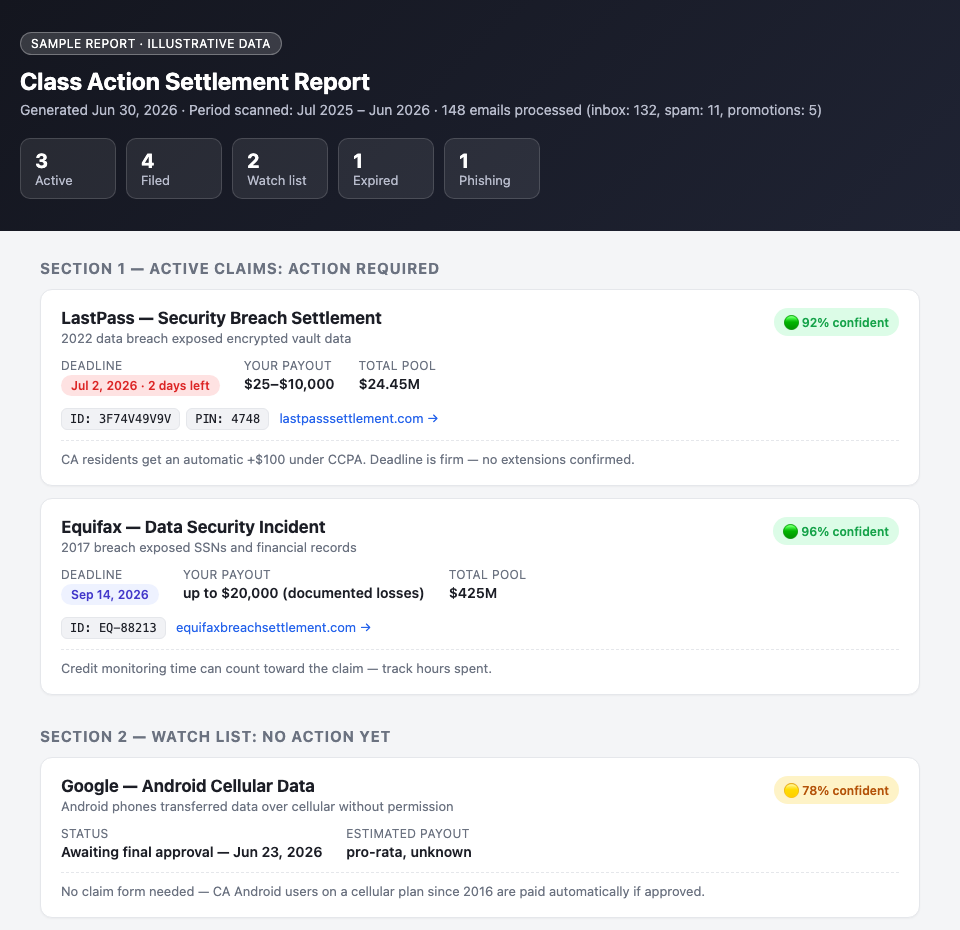
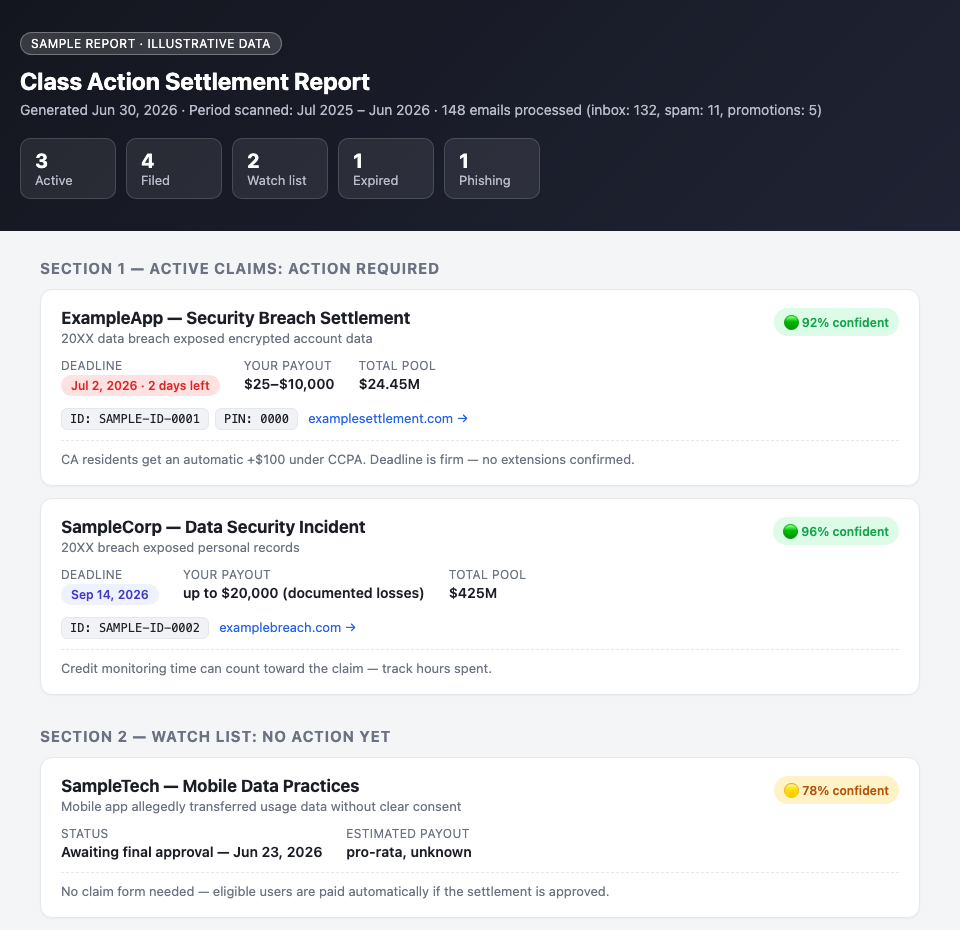
Remove real personal claim data accidentally used as demo content
The previous commit's "sample" report reused real values from an
earlier scan of the user's own inbox: a real LastPass claim ID/PIN,
a real Facebook settlement payout amount, and real company/case
names tied to the user's actual filed claims. Replace all of it with
clearly fictional placeholders (SampleCorp, SAMPLE-ID-0001, etc.) so
the demo contains no real personal or financial data.

diff --git a/docs/demo-report.html b/docs/demo-report.html
@@ -171,8 +171,8 @@
     <div class="card">
       <div class="card-top">
         <div>
-          <h3>LastPass — Security Breach Settlement</h3>
-          <div class="sub">2022 data breach exposed encrypted vault data</div>
+          <h3>ExampleApp — Security Breach Settlement</h3>
+          <div class="sub">20XX data breach exposed encrypted account data</div>
         </div>
         <span class="confidence green">🟢 92% confident</span>
       </div>
@@ -183,7 +183,7 @@
       </div>
       <div>
         <span class="idbox">ID: SAMPLE-ID-0001</span><span class="idbox">PIN: 0000</span>
-        <a class="link" href="#" onclick="return false;">lastpasssettlement.com →</a>
+        <a class="link" href="#" onclick="return false;">examplesettlement.com →</a>
       </div>
       <div class="notes">CA residents get an automatic +$100 under CCPA. Deadline is firm — no extensions confirmed.</div>
     </div>
@@ -191,8 +191,8 @@
     <div class="card">
       <div class="card-top">
         <div>
-          <h3>Equifax — Data Security Incident</h3>
-          <div class="sub">2017 breach exposed SSNs and financial records</div>
+          <h3>SampleCorp — Data Security Incident</h3>
+          <div class="sub">20XX breach exposed personal records</div>
         </div>
         <span class="confidence green">🟢 96% confident</span>
       </div>
@@ -202,8 +202,8 @@
         <div class="field"><div class="k">Total pool</div><div class="v">$425M</div></div>
       </div>
       <div>
-        <span class="idbox">ID: EQ-88213</span>
-        <a class="link" href="#" onclick="return false;">equifaxbreachsettlement.com →</a>
+        <span class="idbox">ID: SAMPLE-ID-0002</span>
+        <a class="link" href="#" onclick="return false;">examplebreach.com →</a>
       </div>
       <div class="notes">Credit monitoring time can count toward the claim — track hours spent.</div>
     </div>
@@ -214,8 +214,8 @@
     <div class="card">
       <div class="card-top">
         <div>
-          <h3>Google — Android Cellular Data</h3>
-          <div class="sub">Android phones transferred data over cellular without permission</div>
+          <h3>SampleTech — Mobile Data Practices</h3>
+          <div class="sub">Mobile app allegedly transferred usage data without clear consent</div>
         </div>
         <span class="confidence yellow">🟡 78% confident</span>
       </div>
@@ -223,7 +223,7 @@
         <div class="field"><div class="k">Status</div><div class="v">Awaiting final approval — Jun 23, 2026</div></div>
         <div class="field"><div class="k">Estimated payout</div><div class="v">pro-rata, unknown</div></div>
       </div>
-      <div class="notes">No claim form needed — CA Android users on a cellular plan since 2016 are paid automatically if approved.</div>
+      <div class="notes">No claim form needed — eligible users are paid automatically if the settlement is approved.</div>
     </div>
   </section>
 
@@ -236,21 +236,21 @@
     <h2>Section 4 — Already Filed</h2>
     <div class="card filed">
       <div class="card-top">
-        <div><h3>Blue Cross Blue Shield — Antitrust</h3><div class="sub">Filed pre-2021</div></div>
+        <div><h3>SampleHealth Group — Antitrust</h3><div class="sub">Filed pre-2021</div></div>
         <span class="confidence green">Pending ⏳</span>
       </div>
       <div class="row">
-        <div class="field"><div class="k">Expected</div><div class="v">pro-rata share of $2.67B</div></div>
+        <div class="field"><div class="k">Expected</div><div class="v">pro-rata share of a large fund</div></div>
         <div class="field"><div class="k">Status</div><div class="v">Checks issued May 2026</div></div>
       </div>
     </div>
     <div class="card filed">
       <div class="card-top">
-        <div><h3>Facebook — Internet Tracking</h3><div class="sub">Filed date unknown</div></div>
+        <div><h3>SampleSocial — Internet Tracking</h3><div class="sub">Filed date unknown</div></div>
         <span class="confidence green"><span class="check">✅</span> Paid</span>
       </div>
       <div class="row">
-        <div class="field"><div class="k">Received</div><div class="v">$4.01 via Zelle</div></div>
+        <div class="field"><div class="k">Received</div><div class="v">$12.50 via direct deposit</div></div>
       </div>
     </div>
   </section>
@@ -269,15 +269,15 @@
   <div class="action-panel">
     <h2>What To Do Next</h2>
     <div class="action-item">
-      <span class="co">LastPass</span> — <span class="dl">deadline Jul 2, 2026 (2 days)</span><br>
-      Visit lastpasssettlement.com · ID SAMPLE-ID-0001 · PIN 0000
+      <span class="co">ExampleApp</span> — <span class="dl">deadline Jul 2, 2026 (2 days)</span><br>
+      Visit examplesettlement.com · ID SAMPLE-ID-0001 · PIN 0000
     </div>
     <div class="action-item">
-      <span class="co">Equifax</span> — deadline Sep 14, 2026<br>
-      Visit equifaxbreachsettlement.com · ID EQ-88213
+      <span class="co">SampleCorp</span> — deadline Sep 14, 2026<br>
+      Visit examplebreach.com · ID SAMPLE-ID-0002
     </div>
     <div class="action-item">
-      <span class="co">Blue Cross Blue Shield</span> — watch for payment<br>
+      <span class="co">SampleHealth Group</span> — watch for payment<br>
       Checks issued May 2026 — check your mail this week.
     </div>
   </div>
